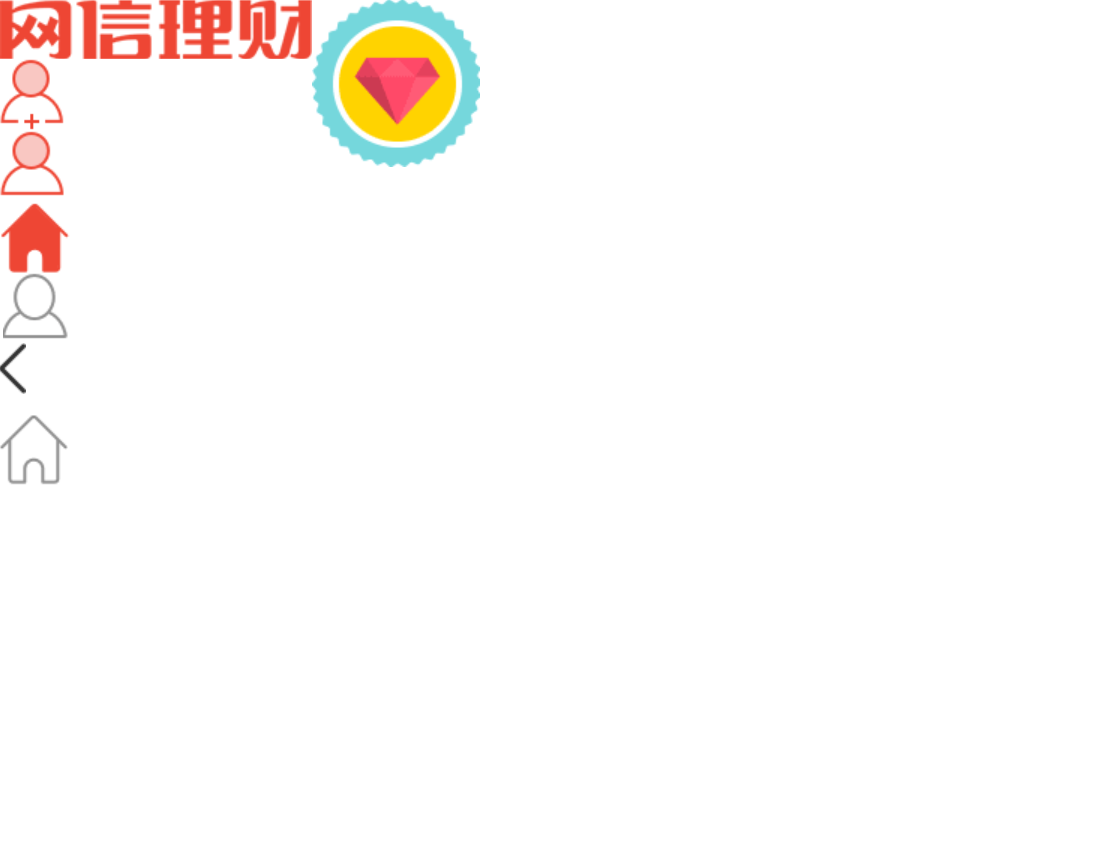
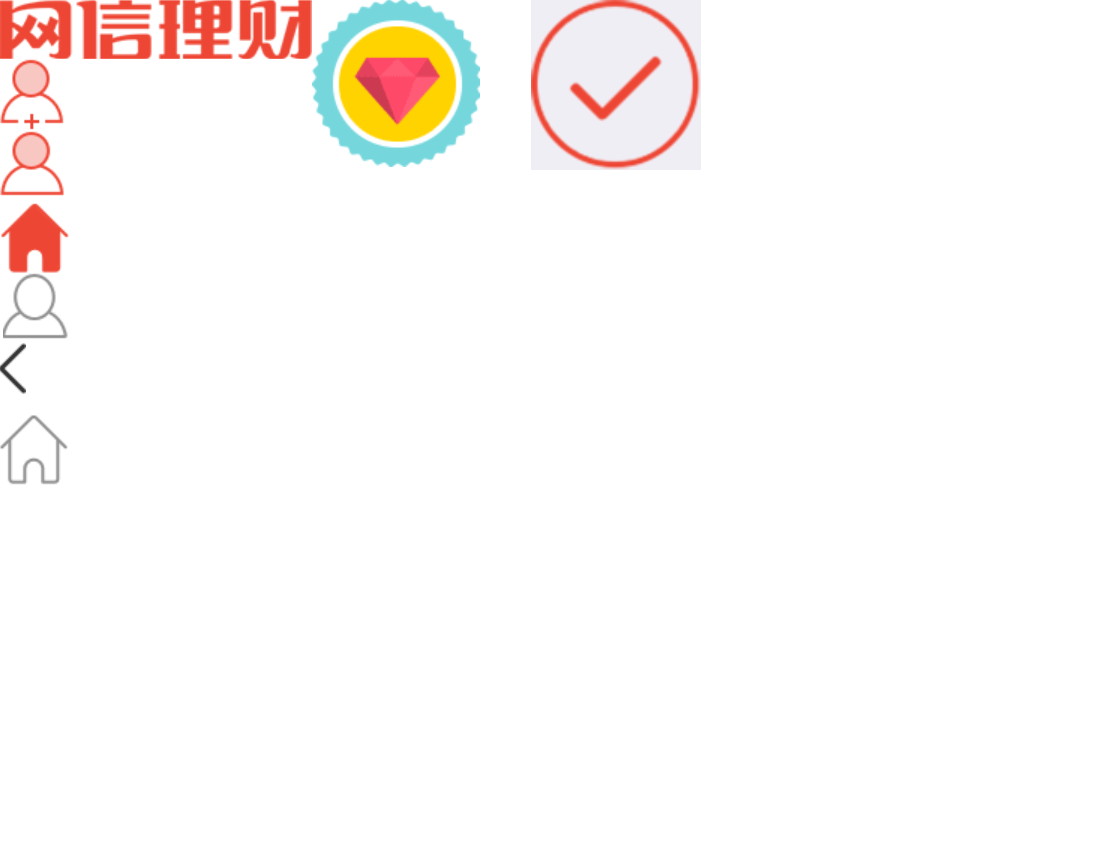
银行卡验证流程结束

Changed region(s): [[0.4586, 0.0, 0.6421, 0.1816], [0.5198, 0.1816, 0.5809, 0.2119], [0.5809, 0.1513, 0.6115, 0.1816]]

diff --git a/src/pages/card/quick.vue b/src/pages/card/quick.vue
@@ -1,0 +1,87 @@
+<template>
+  <div class="quick">
+    <v-bar title="快捷认证绑卡" bg="#fafafa"></v-bar>
+    <div class="quick-title">
+      <p>请按提示完成快捷认证绑卡</p>
+      <p>持卡人: 张良</p>
+    </div>
+    <div class="quick-input-item">
+      <input type="text" name="" id="" class="text-input" v-model="identify">
+    </div>
+    <div class="quick-input-item">
+      <input type="text" name="" id="" class="text-input" v-model="cardNumber">
+    </div>
+    <div class="notice">
+      如验证成功， 此卡将作为您唯一的充值卡和提现卡
+    </div>
+    <v-submit text="下一步" :can-submit="canSubmit" @form-submit="formSubmit"></v-submit>
+  </div>
+</template>
+<script>
+  import util from 'util'
+  export default {
+    data () {
+      return {
+        identify: '',
+        cardNumber: ''
+      }
+    },
+    computed: {
+      canSubmit () {
+        if(this.identify.trim() && this.cardNumber.trim()){
+          return true
+        }else {
+          return false
+        }
+      }
+    },
+    methods: {
+      formSubmit () {
+        if(!this.identify.trim() || !this.cardNumber.trim()) {
+          return
+        }
+        var formData = {
+          identify: this.identify,
+          cardNumber: this.cardNumber
+        }
+        util.post('/api/validate/card', formData, (res) => {
+          if(JSON.parse(res).status == 0) {
+            this.$router.push('/card/success')
+          }
+        }, (err) => {
+          console.log(err)
+        })
+      }
+    }
+  }
+</script>
+<style lang="stylus" scoped>
+  .quick-title {
+    padding: (20rem/20) (45rem/20) 0
+    font-size: (52rem/20)
+    line-height: (122rem/20)
+    color: #000
+  }
+  .quick-input-item {
+    display: flex
+    padding: 0 (45rem/20)
+    height: (166rem/20)
+    background-color: #fff
+    margin-bottom: (41rem/20)
+    .text-input {
+      align-self: center
+      display: block
+      width: 100%
+      line-height: (83rem/20)
+      font-size: (48rem/20)
+      outline: none
+    }
+  }
+  .notice {
+    padding: 0 (45rem/20)
+    font-size: (44rem/20)
+    line-height: (62rem/20)
+    color: #909090
+  }
+ 
+</style>

diff --git a/src/pages/card/start.vue b/src/pages/card/start.vue
@@ -1,16 +1,26 @@
 <template>
   <div class="card-start">
-    <v-bar title="绑定银行卡" class="card-bar"></v-bar>
+    <v-bar title="绑定银行卡" bg="#fafafa" class="card-bar"></v-bar>
     <div class="kind-wrapper">
-      <p class="tip">
-        为保障您的资金安全
-      </p>
+      <div class="tip">
+        为保障您的资金安全,需要先完成身份认证流程<br />
+        (任选<span class="high">一种</span>完成即可)
+        <div class="procedure">
+          查看流程指引
+        </div>
+      </div>
+      <div class="speed-bind bind-item" v-tap="{methods: toQuick}">快捷认证绑卡</div>
+      <div class="little-bind bind-item">小额转账绑卡</div>
     </div>
   </div>
 </template>
 <script>
   export default {
-    
+    methods: {
+      toQuick () {
+        this.$router.push('/card/quick')  
+      }
+    }
   }
 </script>
 <style lang="stylus" scoped>
@@ -18,6 +28,31 @@
     background-color: #f0eef5  
   }
   .kind-wrapper {
-    padding: (45rem/20)
+    padding: (68rem/20) (45rem/20)
+    .tip {
+      position: relative
+      margin-bottom: (42rem/20)
+      line-height: (70rem/20)
+      font-size: (52rem/20)
+      color: #070707
+      .procedure {
+        position: absolute
+        right:0
+        bottom: 0
+        font-size: (44rem/20)
+        color: #2ba9e3
+      }
+    }
+    .bind-item {
+      height: (280rem/20)
+      line-height: (280rem/20)
+      margin-bottom: (50rem/20)
+      font-size: (54rem/20)
+      text-align: center
+      background-color: #fff
+      border-radius: (13rem/20)
+    }
+    
+
   }
 </style>

diff --git a/src/components/submit/index.vue b/src/components/submit/index.vue
@@ -1,0 +1,61 @@
+<template>
+  <button class="submit" :style="btnStyle" v-tap="{methods: submit}">
+    {{text}}
+  </button>
+</template>
+<script>
+  export default {
+    props: {
+      text: {
+        type: String,
+        default: ''
+      },
+      disableStyle:　{
+        type: Object,
+        default () {
+          return {
+            backgroundColor: '#ef8981',
+            color: '#f9f8fb'
+          }
+        }
+      },
+      canSubmit: {
+        type: Boolean,
+        default: false
+      },
+      formData: {
+        type: Object,
+        default　() {
+          return {}
+        }
+      }
+    },
+    computed: {
+      btnStyle () {
+        if(this.canSubmit){
+          return {}
+        }else {
+          return this.disableStyle
+        }
+      }
+    },
+    methods: {
+      submit () {
+        this.$emit('form-submit')
+      }
+    }
+
+  }
+</script>
+<style lang="stylus" scoped>
+  .submit {
+    display: block
+    width: 100%
+    height: (133rem/20)
+    line-height: (133rem/20)
+    font-size: (40rem/20)
+    color: #fff
+    text-align: center
+    background-color: #ee4634
+  }
+</style>

diff --git a/src/pages/card/success.vue b/src/pages/card/success.vue
@@ -1,0 +1,49 @@
+<template>
+  <div class="success">
+    <v-bar title="绑定结果页" bg="#fafafa"></v-bar>
+    <div class="success-info">
+      <i class="icon"></i>
+      <p class="text">恭喜您验证成功</p>
+    </div>
+    <div class="submit-wrapper">
+      <v-submit text="完成" :can-submit="true" @form-submit="formSubmit"></v-submit>
+    </div>
+  </div>
+</template>
+<script>
+  import {mapState} from 'vuex'
+  export default {
+    computed: {
+      ...mapState([
+        'aimRoute'
+      ])
+    },
+    methods: {
+      formSubmit () {
+        this.$router.push(this.aimRoute) 
+      }
+    }
+  }
+</script>
+<style lang="stylus" scoped>
+  .success {
+    .success-info {
+      margin-top: (222rem/20)
+      text-align: center
+      .icon {
+        width: (170rem/20)
+        height: (170rem/20)
+        background-position: (-531rem/20) 0
+      }
+      .text {
+        margin-top: (110rem/20)
+        font-size: (48rem/20)
+        line-height: (60rem/20)
+      }
+    }
+    .submit-wrapper {
+      padding: 0 (45rem/20)
+      margin-top: (260rem/20)
+    }
+  }
+</style>

diff --git a/src/router/index.js b/src/router/index.js
@@ -8,6 +8,8 @@ import My from '../pages/my/index'
 import List from '../pages/list/index'
 import Card from '../pages/card/index'
 import Start from '../pages/card/start'
+import Quick from '../pages/card/quick'
+import Success from '../pages/card/success'
 import Buy from '../pages/buy/index'
 
 Vue.use(Router)
@@ -59,6 +61,14 @@ export default new Router({
         {
           path:'start',
           component: Start
+        },
+        {
+          path: 'quick',
+          component: Quick
+        },
+        {
+          path: 'success',
+          component: Success
         }
       ]
     }

diff --git a/src/pages/my/index.vue b/src/pages/my/index.vue
@@ -1,11 +1,12 @@
 <template>
   <div class="my">
-    <v-bar title="用户详情">
-     <v-back slot="left"></v-back>
+    <v-bar title="个人详情">
+      <div class="set item" slot="right">设置</div>
     </v-bar>
     <div class="my-content" v-tap="{methods: loginout}">
       点击退出登录
     </div>
+    <v-footer></v-footer>
   </div>
 </template>
 <script>
@@ -30,5 +31,8 @@
   .my-content {
     text-align: center
     font-size: (56rem/20)
+  }
+  .set {
+    text-align: center
   }
 </style>

diff --git a/build/dev-server.js b/build/dev-server.js
@@ -70,6 +70,20 @@ apiRouter.post('/user/register', function (req, res) {
   
 })
 
+apiRouter.post('/validate/card', function (req, res) {
+  // Object.keys(res.body).forEach( k => {
+  //   if(!res.body[k].trim()){
+  //     return res.json({
+  //       status: 1,
+  //       message: '银行卡号或者身份证号不能为空'
+  //     })
+  //   }
+  // })
+  res.json({
+    status: 0,
+    message: '验证成功'
+  })
+})
 
 
 

diff --git a/src/components/bar/index.vue b/src/components/bar/index.vue
@@ -1,5 +1,5 @@
 <template>
-  <div class="bar">
+  <div class="bar" :style="bgObj">
     <slot name="left">
       <div class="item"></div>
     </slot>
@@ -15,6 +15,17 @@
       title: {
         type: String,
         default: ''
+      },
+      bg: {
+        type: String,
+        default: '#fff'
+      }
+    },
+    computed: {
+      bgObj () {
+        return {
+          background: this.bg
+        }
       }
     }
   }

diff --git a/src/components/index.js b/src/components/index.js
@@ -7,4 +7,5 @@ import ProductItem from './product-item/index'
 import Division from './other/division'
 import Pop from './pop/index'
 import Back from './back/index'
-export default {Bar, Header, Footer, Content, Slide, ProductItem, Division, Pop, Back}
+import Submit from './submit/index'
+export default {Bar, Header, Footer, Content, Slide, ProductItem, Division, Pop, Back, Submit}

diff --git a/src/pages/login/index.vue b/src/pages/login/index.vue
@@ -62,9 +62,8 @@
             if(user.hasBindCard){
               this.$router.push(this.aimRoute)
             }else {
-              this.$router.go(-1)
+              this.$router.push('/card/start')
             }
-            console.log(this.$route)
           }, (err) => {
             console.log(err)
           })
